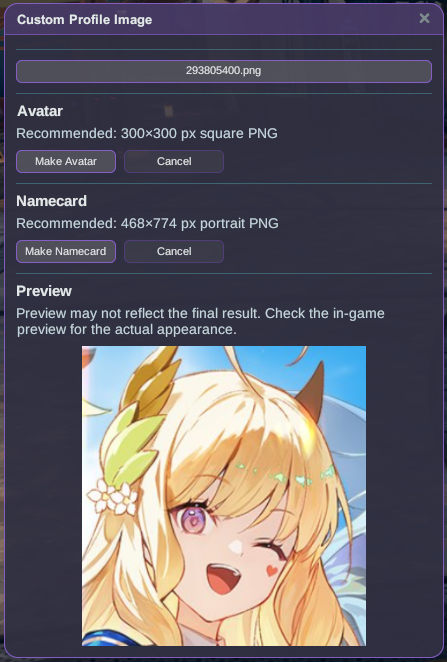
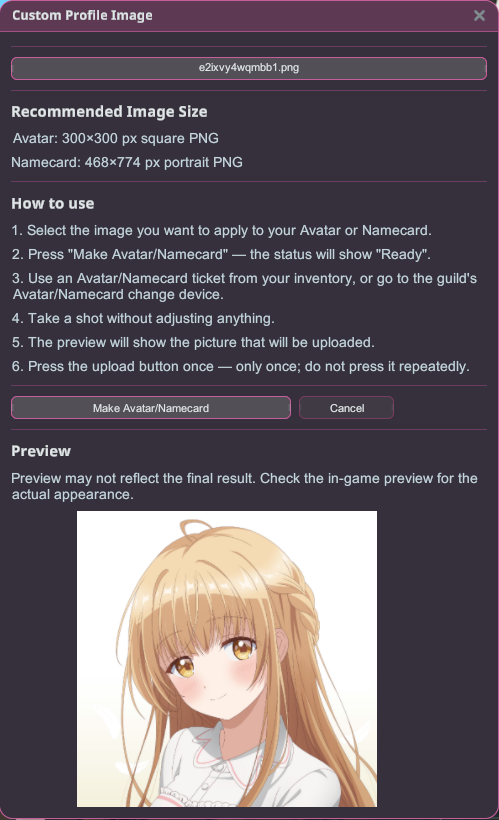
release(customprofleimage): 2.2.0
Bump to v2.2.0 (pinned commit 7f9f2eb, tag v2.2.0). minModSystemVersion
unchanged at 2.3.0 so capPriorVersionsAt is dropped (no framework break).
Rewrites the changelog for the release (non-ASCII upload fix, single
Make Avatar/Namecard button, on-screen instructions + localized status),
refreshes the guide instructions, and updates the screenshot to the new
window with the how-to steps.

diff --git a/plugins/customprofleimage/guide.md b/plugins/customprofleimage/guide.md
@@ -1,21 +1,31 @@
 # Custom Profile Image
 
-Use any PNG as your in-game avatar or namecard — no in-game camera required.
+Use any PNG as your in-game avatar or namecard — no in-game camera photo required. Works even if
+your Windows account, your picture, or the game itself is installed in a folder with non-English
+characters.
 
 ![Custom Profile Image window](media/customprofileimage.png)
 
 ## How to use
 
-1. Install the plugin and launch the game **Modded**.
+1. Install the plugin and launch the game **Modded**, then enter the world.
 2. Open the **Custom Profile Image** window from the Stellar overlay.
-3. Pick your PNG with the file button at the top (native file picker, filtered to PNG).
-4. Click what you want it to become:
-   - **Make Avatar** — recommended 300×300 px square PNG.
-   - **Make Namecard** — recommended 468×774 px portrait PNG.
-5. Check the **Preview** — it may not reflect the final result exactly, so confirm the
-   in-game appearance afterwards.
+3. **Select the image** you want to apply to your Avatar or Namecard. A native PNG file picker
+   opens — if you don't see it, it may be behind the game window: press **Alt+Tab** to bring it
+   forward, or run the game in **Borderless / Windowed** mode.
+4. Press **Make Avatar/Namecard** — the status shows **Ready**.
+5. In-game, use an **Avatar / Namecard change ticket** from your inventory, or go to the **guild's
+   Avatar / Namecard change device**.
+6. **Take a shot without adjusting anything.** The preview shows the picture that will be uploaded.
+7. Press the game's **upload button once** — only once; don't press it repeatedly.
 
-## Tips
+One selected image serves both: the plugin automatically applies it as your **Avatar** or
+**Namecard** depending on which one you're changing in-game.
 
-- Stick close to the recommended sizes — the game scales other ratios, which can blur or
-  crop your picture.
+## Recommended image sizes
+
+- **Avatar:** 300×300 px square PNG
+- **Namecard:** 468×774 px portrait PNG
+
+Staying close to these avoids the game scaling or cropping your picture. The in-window preview may
+not exactly match the final result — check the in-game preview before you confirm.
